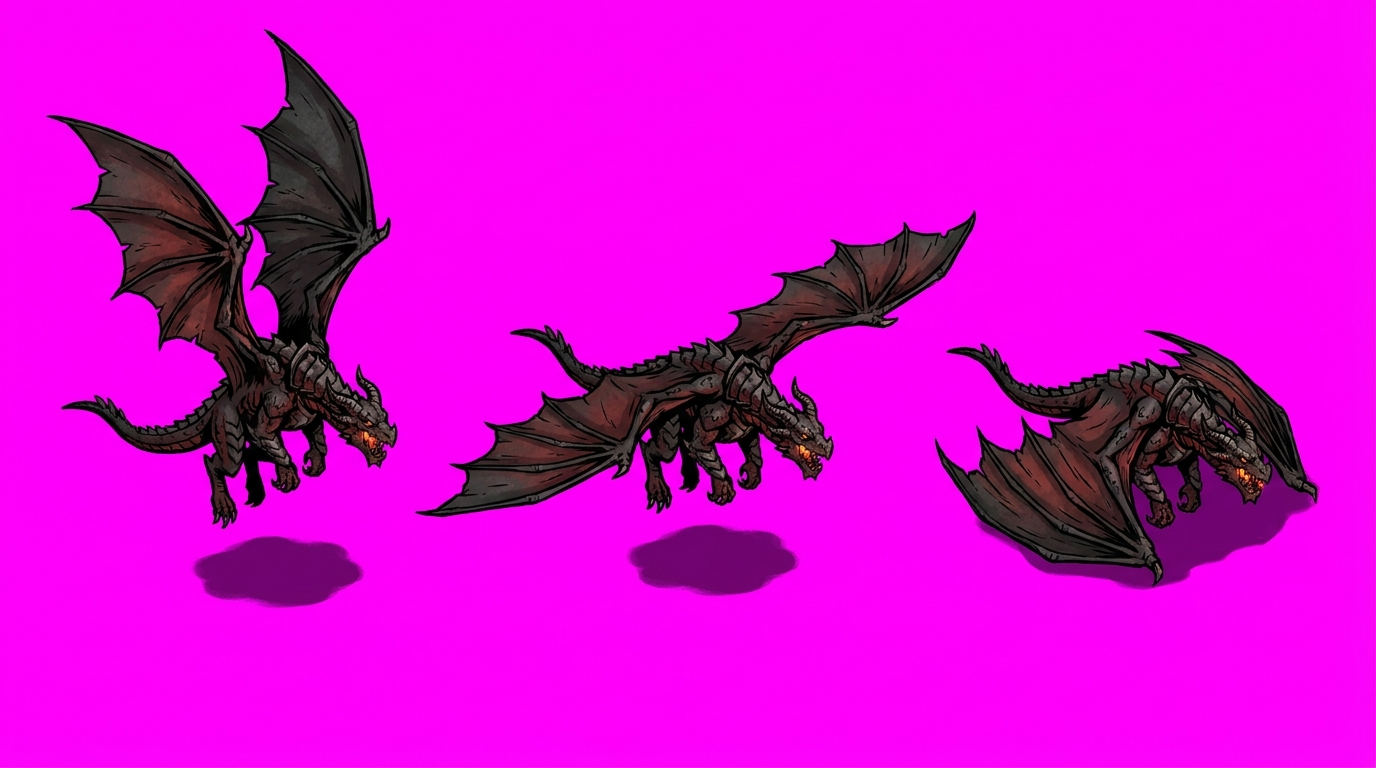
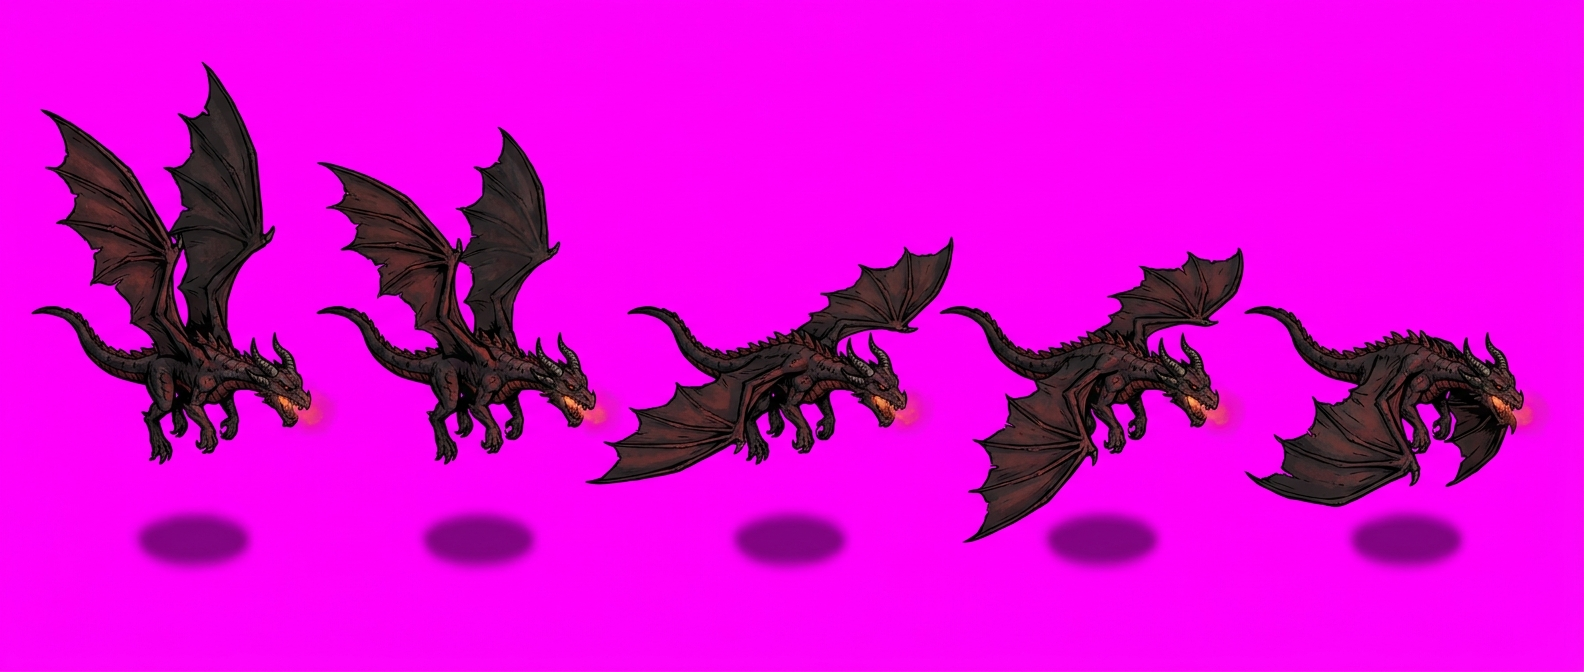
v0.172.0 — smoother 5-frame wing-flap
Regenerated gen_dragon_fly + gen_griffin_fly as 5-frame sheets; assets slice 3x1->5x1
for both; drawUnit flap now cycles 0..n straight through (dropped the ping-pong).
Verified both load 5 frames.

Changed region(s): [[0.0, 0.0312, 1.0, 0.875], [0.8125, 0.4062, 0.8438, 0.4375]]

diff --git a/src/game/render/Renderer.ts b/src/game/render/Renderer.ts
@@ -1188,10 +1188,10 @@ export class Renderer {
       // Flying units flap continuously (orc dragon vs human griffin), phase-offset
       // per unit so a flight isn't perfectly in sync.
       const flap = isEnemy ? this.assets.dragonFlapFrames : this.assets.griffinFlapFrames;
-      if (flap.length >= 3) {
-        // Slower, smoother flap; ping-pong so 3 frames read as up→level→down→level.
-        const seq = [0, 1, 2, 1];
-        sprite = flap[seq[Math.floor(this.now * 3.5 + u.pos.x * 0.04) % seq.length]];
+      if (flap.length > 0) {
+        // Smooth slow flap straight through the frames (5 = raised→level→swept low),
+        // phase-offset per unit so a flight isn't perfectly in sync.
+        sprite = flap[Math.floor(this.now * 6 + u.pos.x * 0.04) % flap.length];
       }
     } else if (u.kind === "knight" && (u.path.length > 0 || u.finalTarget !== null) && u.attackAnim <= 0) {
       // Mounted gallop while travelling (horse for humans, dire wolf for orcs).

diff --git a/src/game/render/assets.ts b/src/game/render/assets.ts
@@ -374,16 +374,16 @@ export class Assets {
     jobs.push(
       load(inl?.dragonFly ?? "/gen_dragon_fly.jpg").then((img) => {
         if (!img) return;
-        const m = sliceGrid(img, 3, 1, ["d0", "d1", "d2"]);
-        const fr = [m.get("d0"), m.get("d1"), m.get("d2")];
+        const m = sliceGrid(img, 5, 1, ["d0", "d1", "d2", "d3", "d4"]);
+        const fr = [m.get("d0"), m.get("d1"), m.get("d2"), m.get("d3"), m.get("d4")];
         if (fr.every(Boolean)) this.dragonFlapFrames = fr as CanvasImageSource[];
       }),
     );
     jobs.push(
       load(inl?.griffinFly ?? "/gen_griffin_fly.jpg").then((img) => {
         if (!img) return;
-        const m = sliceGrid(img, 3, 1, ["f0", "f1", "f2"]);
-        const fr = [m.get("f0"), m.get("f1"), m.get("f2")];
+        const m = sliceGrid(img, 5, 1, ["f0", "f1", "f2", "f3", "f4"]);
+        const fr = [m.get("f0"), m.get("f1"), m.get("f2"), m.get("f3"), m.get("f4")];
         if (fr.every(Boolean)) this.griffinFlapFrames = fr as CanvasImageSource[];
       }),
     );

diff --git a/CHANGELOG.md b/CHANGELOG.md
@@ -6,6 +6,11 @@ working tree back to one: `git checkout v0.3.0` (and `git checkout main` to
 return). The autonomous improvement loop bumps the minor version and tags a new
 snapshot after each major change.
 
+## v0.172.0 — Smoother 5-frame wing-flap _(2026-06-07)_
+- Dragon + griffin wing-flap regenerated as **5 distinct frames** each (raised →
+  high-mid → level → mid-low → swept low) and now cycle straight through for a much
+  smoother beat — replacing the 3-frame ping-pong.
+
 ## v0.171.0 — Mounted gallop animation _(2026-06-07)_
 - The mounted **knight** (warhorse) and orc **wolf-rider** now **gallop** while
   moving — a 4-frame leg cycle (gathered → reach → airborne → push-off), faction